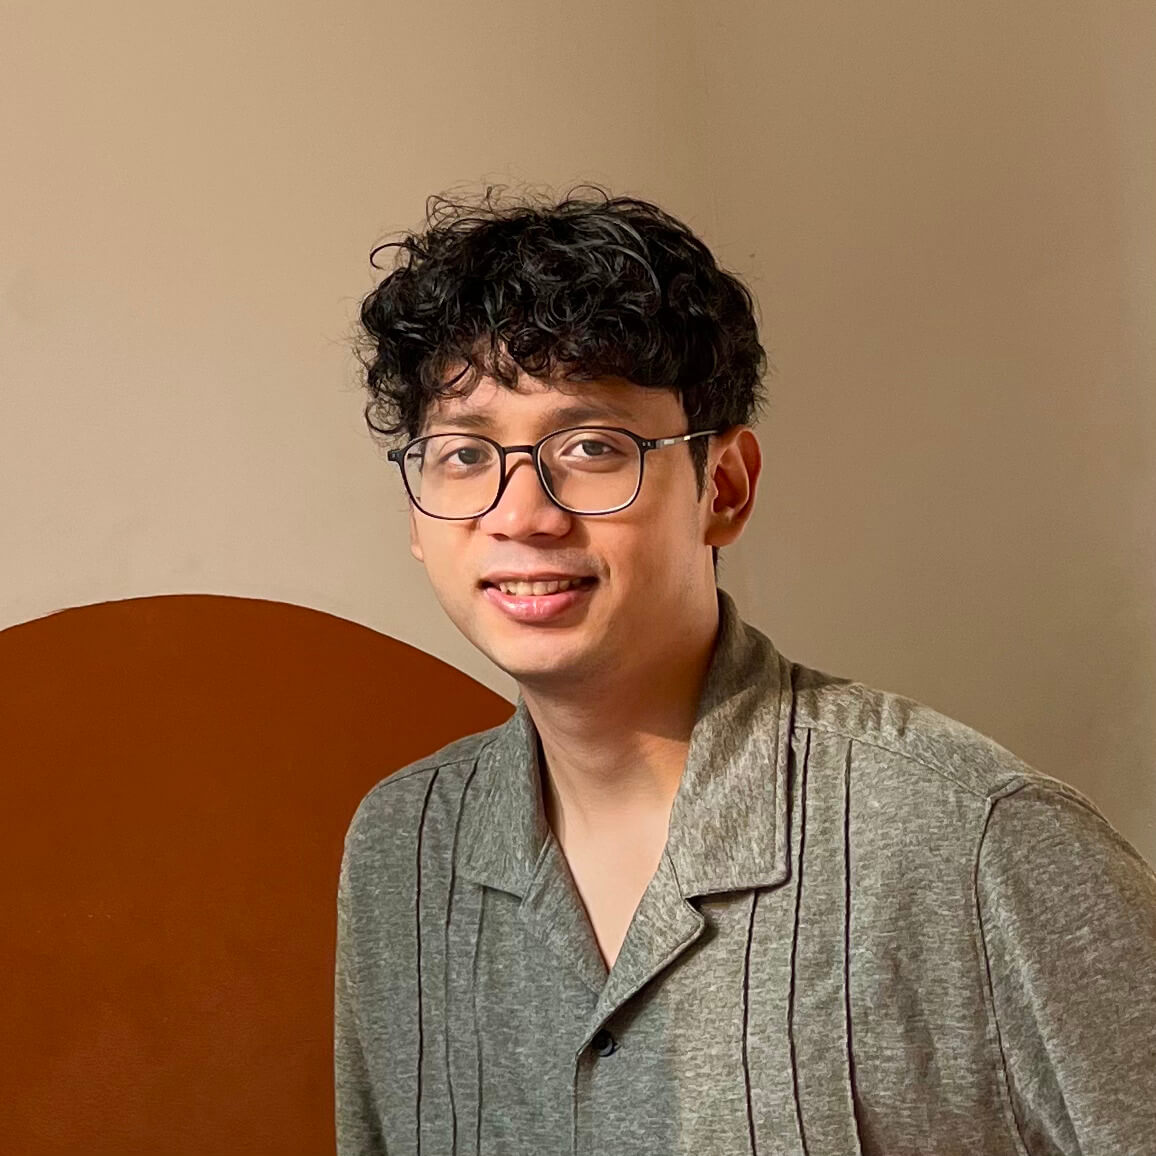
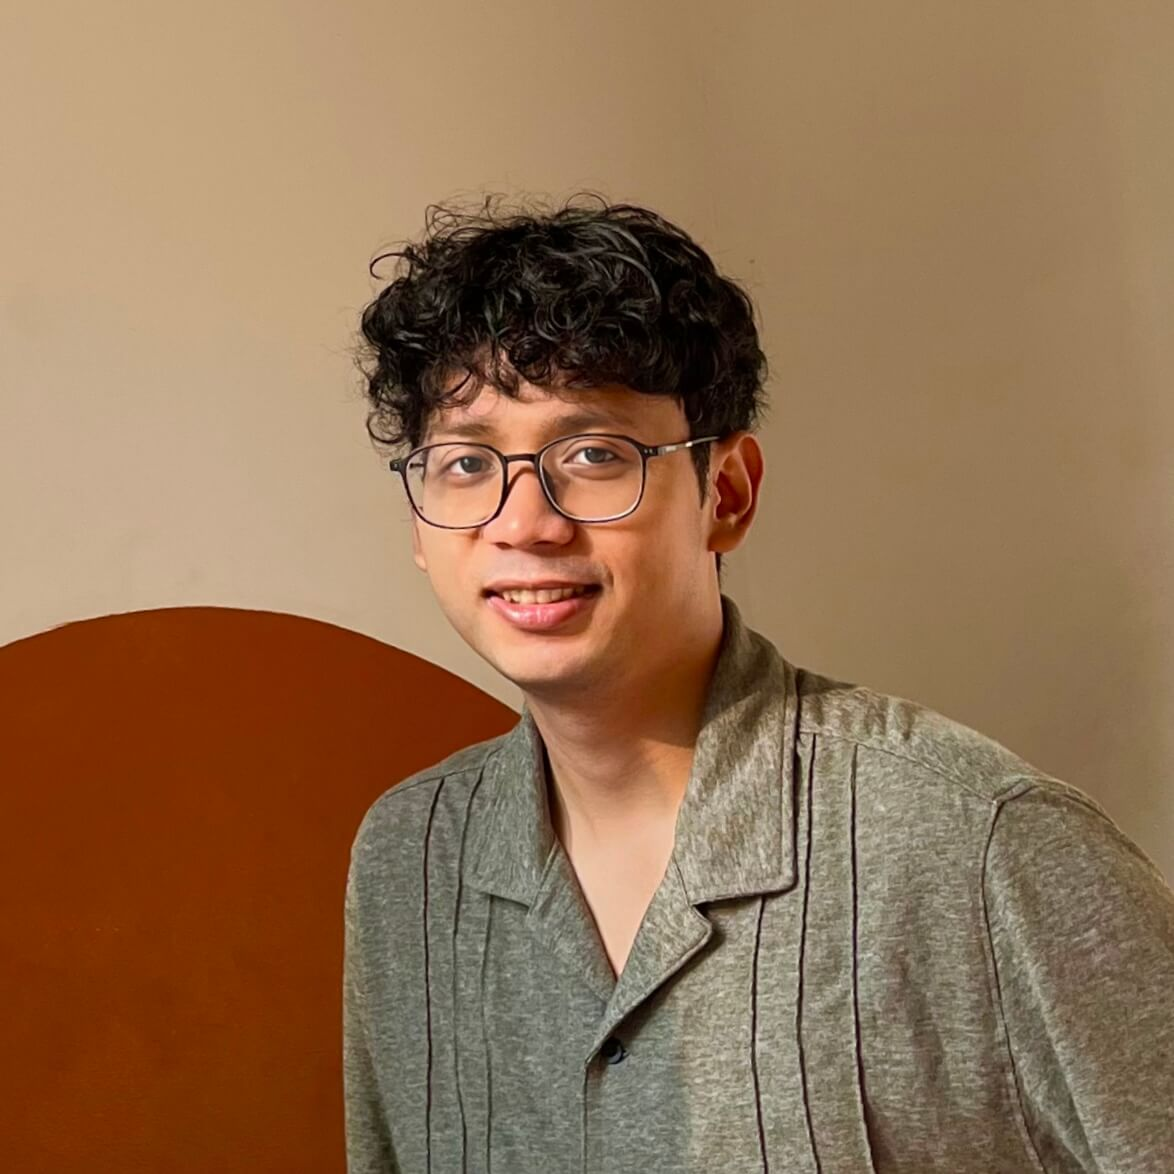
feat: update profile picture

Changed region(s): [[0.2803, 0.1557, 1.0, 1.0], [0.0623, 0.4983, 0.2491, 0.5294], [0.0, 0.5294, 0.0623, 0.5606]]

diff --git a/index.html b/index.html
@@ -82,7 +82,7 @@
 	<!--Img Col-->
 	<div class="w-full lg:w-2/5">
 		<!-- Big profile image for side bar (desktop) -->
-		<img src="images/compressed/profile-picture-2x3-2026.jpg" class="rounded-none lg:rounded-lg shadow-2xl hidden lg:block">
+		<img src="images/compressed/profile-picture-2x3-2026.png" class="rounded-none lg:rounded-lg shadow-2xl hidden lg:block">
 		<!-- Image from: http://unsplash.com/photos/MP0IUfwrn0A -->
 		
 	</div>
